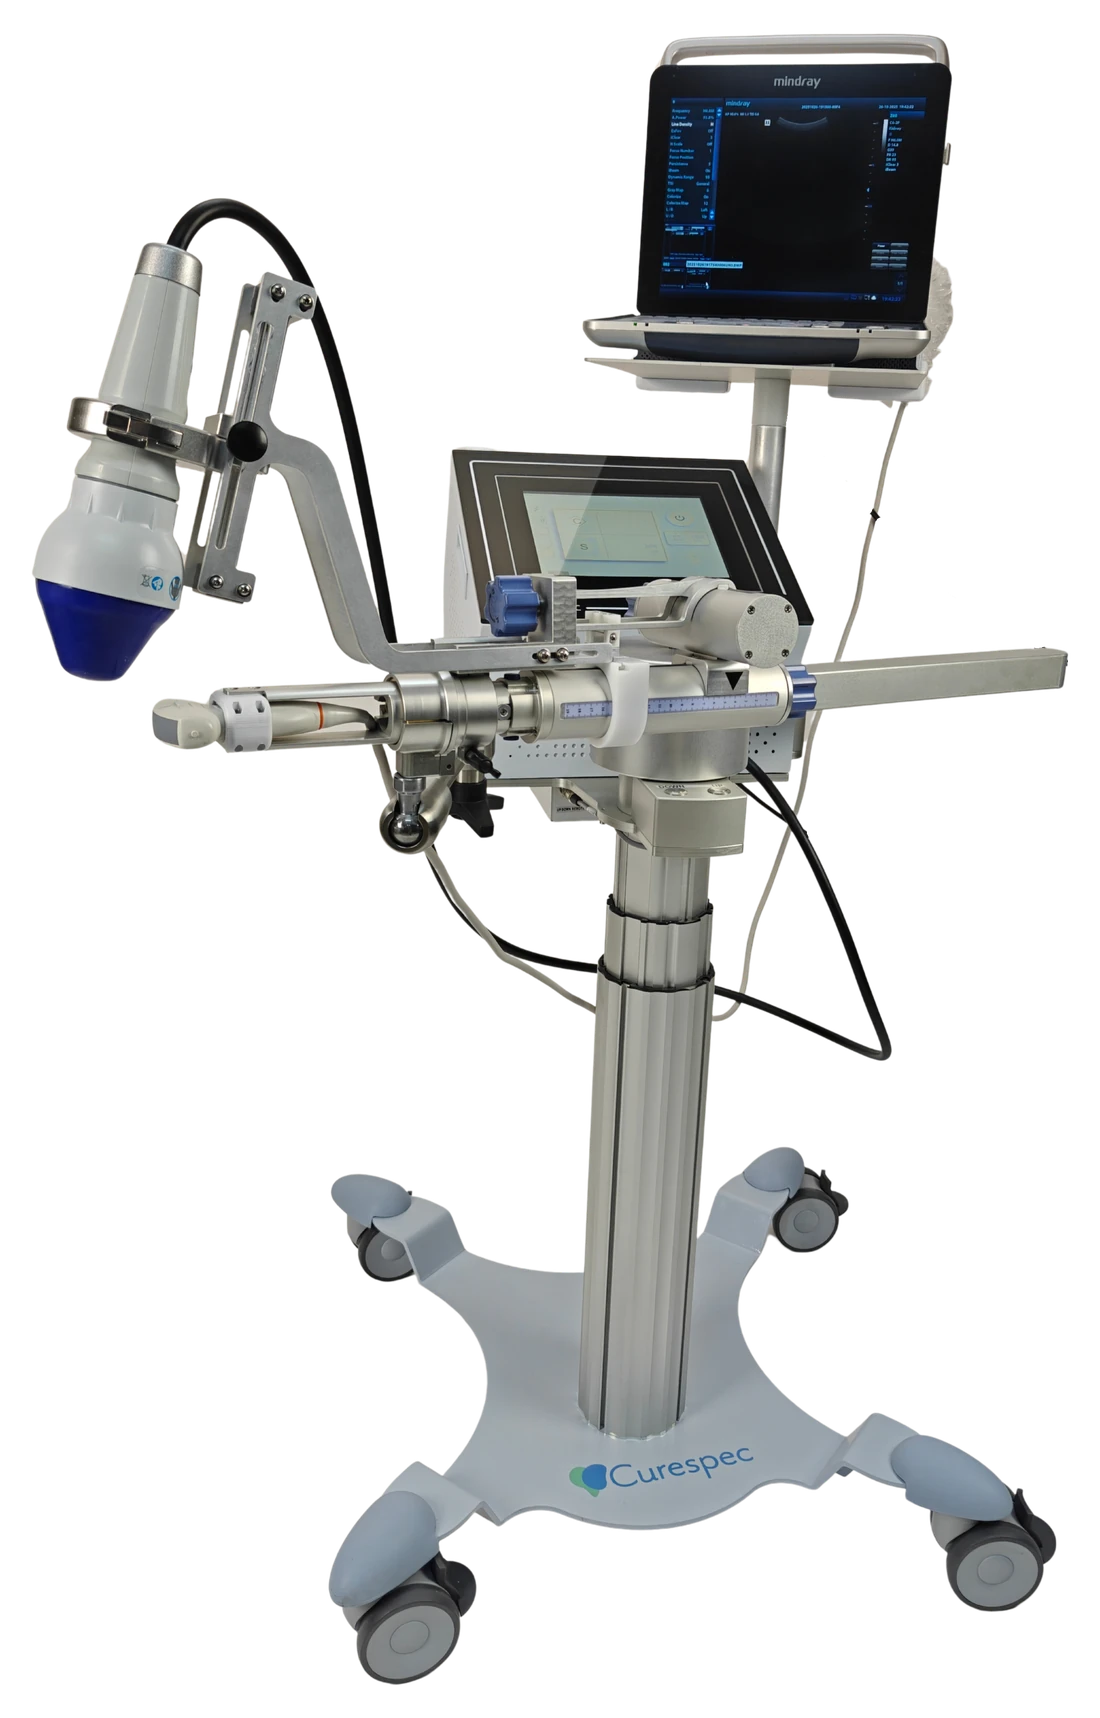
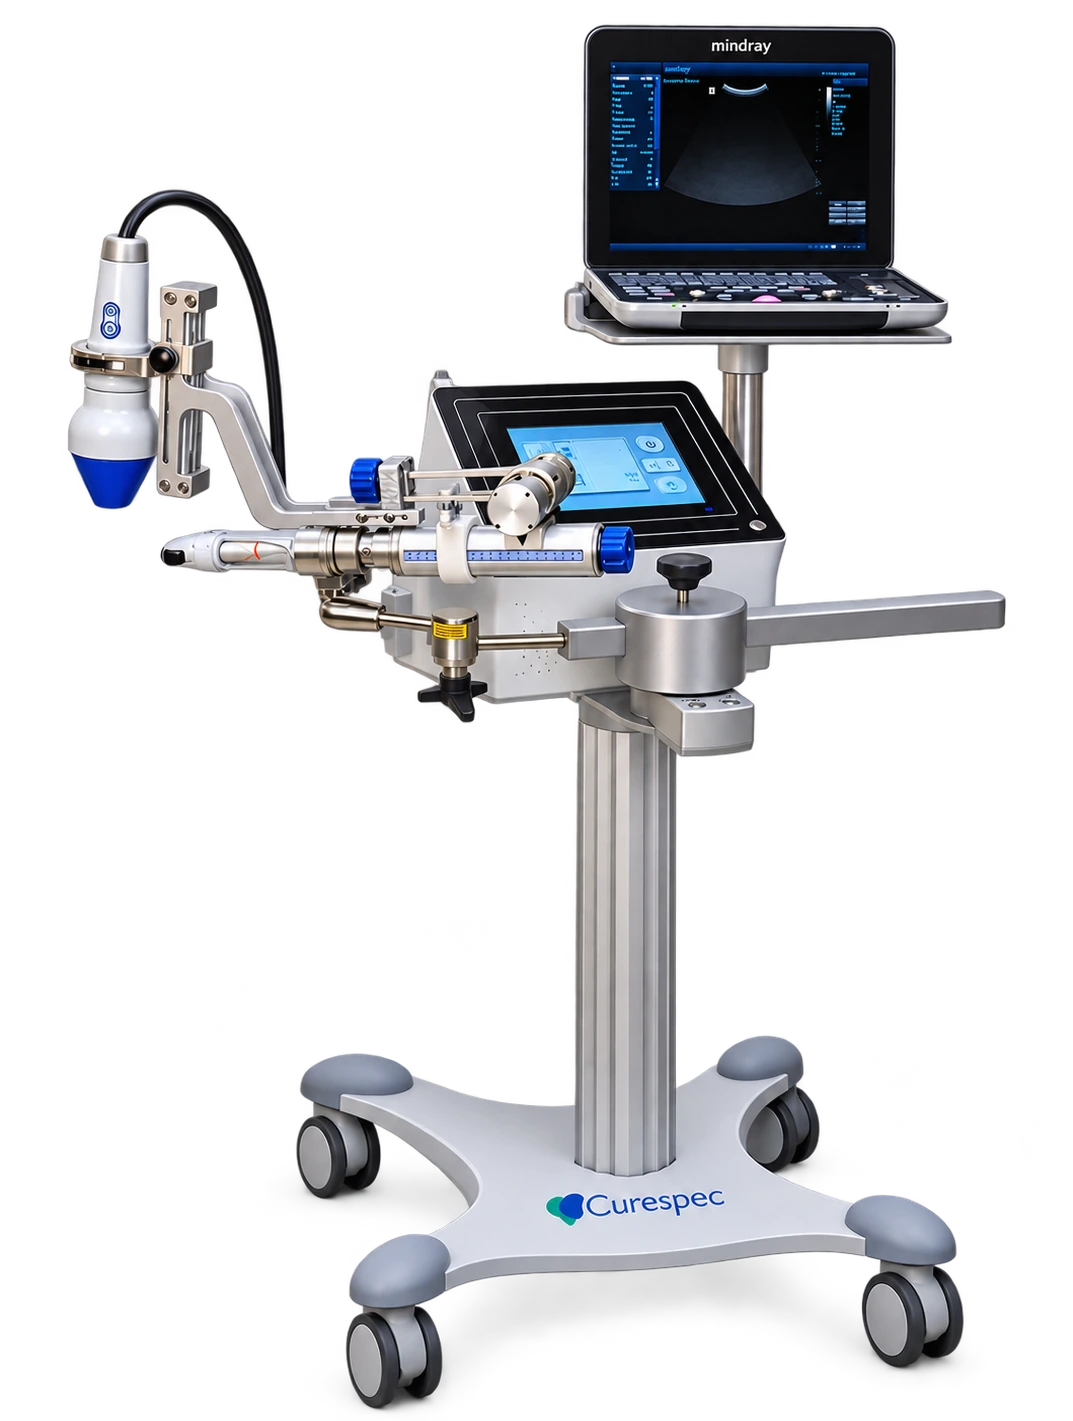
Swap home page device photo for a tighter, pre-cropped version
Claude-Session: https://claude.ai/code/session_01MuHassrywxgiY1AQm4Dewa

diff --git a/index.html b/index.html
@@ -269,7 +269,7 @@ section{padding-block:clamp(72px,9vw,120px)}
     <p class="lead">Nephrospec™ is a non-invasive Electro-Hydraulic Acoustic Therapy (eHAT) device designed to treat chronic kidney disease (CKD) and hypertension.</p>
     <div class="stats"><div><b>6</b><span>Treatments</span></div><div><b>3</b><span>Weeks</span></div><div><b>~60</b><span>Min each</span></div></div>
   </div>
-  <div class="device-shot"><img src="assets/nephrospec-device.webp" alt="Nephrospec device" width="1100" height="1718" loading="lazy"></div>
+  <div class="device-shot"><img src="assets/nephrospec-device.webp" alt="Nephrospec device" width="1073" height="1421" loading="lazy"></div>
 </div></section>
 
 <section class="story dark" id="story"><div class="wrap">
